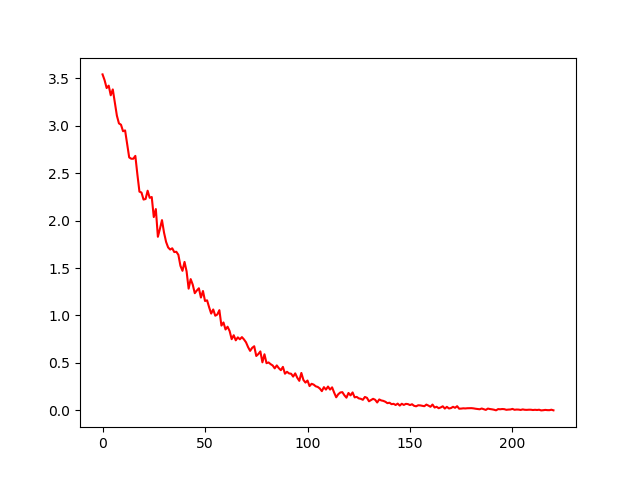
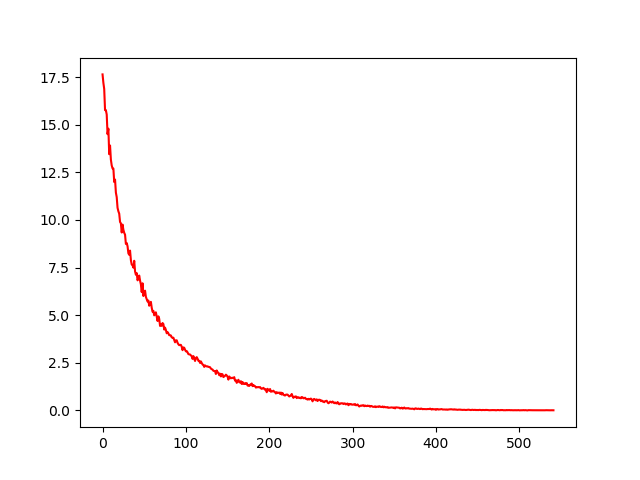
Fix experiments for multivariate case

diff --git a/experiments.py b/experiments.py
@@ -12,39 +12,39 @@ from fitting import fit_MLE, fit_VI, reverse_KL_linear, variational_loss
 from inference import *
 from simple_markov_chain import SimpleMarkovChain
 
-def get_inference_results(mc, num_samples=10000):
+def get_inference_results(mc, dim=1, num_samples=10000):
     data = mc.sample_labeled(num_samples)
 
     print("Data shapes:", [d.shape for d in data.values()])
 
     # Generative
     fitted_mc = SimpleMarkovChain(mc.num_nodes)
-    fitted_mc.initialize_empty_cpds()
+    fitted_mc.initialize_empty_cpds(dim=dim)
     log_fn, plot_results = make_linear_log_fn(mc)
     fit_MLE(data, fitted_mc, log_fn=log_fn)
     plot_results(f"{num_samples}-linear-fit")
 
     # Jumpy generative (every other node)
-    jumpy = SimpleMarkovChain(mc.num_nodes, step=2)
-    jumpy.initialize_empty_cpds()
-    fit_MLE(data, jumpy, log_fn=log_fn)
+    # jumpy = SimpleMarkovChain(mc.num_nodes, step=2)
+    # jumpy.initialize_empty_cpds(dim=dim)
+    # fit_MLE(data, jumpy, log_fn=log_fn)
 
-    full_jump = SimpleMarkovChain(mc.num_nodes, step=mc.num_nodes-1)
-    full_jump.initialize_empty_cpds()
-    fit_MLE(data, full_jump, log_fn=log_fn)
+    # full_jump = SimpleMarkovChain(mc.num_nodes, step=mc.num_nodes-1)
+    # full_jump.initialize_empty_cpds(dim=dim)
+    # fit_MLE(data, full_jump, log_fn=log_fn)
 
     # Discriminative
     p_hat = DiscriminativeMarkovChain(mc.num_nodes)
-    p_hat.initialize_empty_cpds()
+    p_hat.initialize_empty_cpds(dim=dim)
     fit_MLE(data, p_hat, batch_size=min(32, num_samples // 5))
 
     # VI: using reverse KL from true posterior and the ELBO as two different losses
     q_ideal = DiscriminativeMarkovChain(mc.num_nodes)
-    q_ideal.initialize_empty_cpds()
-    fit_VI(data, mc, q_ideal, num_epochs=400, loss_fn=reverse_KL_linear, plot_name="reverse_kl_loss")
+    q_ideal.initialize_empty_cpds(dim=dim)
+    fit_VI(data, mc, q_ideal, num_epochs=800, loss_fn=reverse_KL_linear, plot_name="reverse_kl_loss")
 
     q = DiscriminativeMarkovChain(mc.num_nodes)
-    q.initialize_empty_cpds()
+    q.initialize_empty_cpds(dim=dim)
     fit_VI(data, mc, q, ideal_variational_mc=q_ideal, batch_size=min(32, num_samples // 5))
 
     # VI loss on the entire dataset of evidence
@@ -52,22 +52,22 @@ def get_inference_results(mc, num_samples=10000):
     q_full_loss = variational_loss(mc, q, f"X_{mc.num_nodes}", data[f"X_{mc.num_nodes}"])
     print(f"q loss: {q_full_loss}, ideal loss: {ideal_full_loss}")
 
-    return fitted_mc, jumpy, full_jump, p_hat, q
+    return fitted_mc, p_hat, q
 
 def make_linear_log_fn(true_mc):
     a_errs, b_errs, cov_errs = {}, {}, {}
 
     def log_fn(node_name, cond_fn):
-        a = cond_fn.weights[0].weight.squeeze()
-        b = cond_fn.weights[0].bias.squeeze()
-        cov = cond_fn.cov_matrix().item()
+        a = cond_fn.weights[0].weight
+        b = cond_fn.weights[0].bias
+        cov = cond_fn.cov_matrix()
 
         true_a, true_b = true_mc.parameters[node_name]["coeffs"]
         true_cov = true_mc.parameters[node_name]["cov"]
 
-        a_errs[node_name] = a_errs.get(node_name, []) + [abs(a - true_a)]
-        b_errs[node_name] = b_errs.get(node_name, []) + [abs(b - true_b)]
-        cov_errs[node_name] = cov_errs.get(node_name, []) + [abs(cov - true_cov)]
+        a_errs[node_name] = a_errs.get(node_name, []) + [torch.sum(abs(a - true_a))]
+        b_errs[node_name] = b_errs.get(node_name, []) + [torch.sum(abs(b - true_b))]
+        cov_errs[node_name] = cov_errs.get(node_name, []) + [torch.sum(abs(cov - true_cov))]
 
     def plot_results(prefix="linear-fit"):
         for node_name in a_errs:
@@ -82,6 +82,8 @@ def make_linear_log_fn(true_mc):
     return log_fn, plot_results
         
 def test_finite_samples(sample_amounts=[1000]):
+    dim = 1
+
     # Arbitrary length 5 chain
     # length = 5
     # true_mc = SimpleMarkovChain(5)
@@ -98,9 +100,19 @@ def test_finite_samples(sample_amounts=[1000]):
     # true_mc.specify_polynomial_cpds((0, 1), [(-1.5, 0.6)], [0.7])
 
     # Length 3 chain
-    length = 3
+    # length = 3
+    # true_mc = SimpleMarkovChain(length)
+    # true_mc.specify_polynomial_cpds((0, 1), [(1, 0), (1, 0)], [1, 1])
+
+    # Multivariate example
+    length = 2
+    dim = 2
     true_mc = SimpleMarkovChain(length)
-    true_mc.specify_polynomial_cpds((0, 1), [(1, 0), (1, 0)], [1, 1])
+    true_mc.specify_polynomial_cpds(
+        (torch.tensor([0, 2]).float(), torch.diag(torch.tensor([1, 0.4]))), 
+        [(torch.diag(torch.tensor([2., -1.])), torch.tensor([-3., 3.]))], 
+        [torch.diag(torch.tensor([2.2, 0.7]))]
+    )
 
     # Show distribution of evidence
     # evidence = true_mc.sample_labeled(1000)[f"X_{length}"]
@@ -120,7 +132,8 @@ def test_finite_samples(sample_amounts=[1000]):
         print(f"Trying sample size: {num_samples}")
 
         # Get p_hat using discriminative, q using VI
-        p_hat, jumpy, full_jump, disc_posterior, vi_posterior = get_inference_results(true_mc, num_samples)
+        # p_hat, jumpy, full_jump, disc_posterior, vi_posterior = get_inference_results(true_mc, num_samples)
+        p_hat, disc_posterior, vi_posterior = get_inference_results(true_mc, dim=dim, num_samples=num_samples)
 
         gen_kl = expected_kl_gaussian(true_mc, p_hat, "X_1", f"X_{length}", posterior_func=infer_from_generative)
         # jumpy_kl = expected_kl_gaussian(true_mc, jumpy, "X_1", f"X_{length}", posterior_func=infer_from_generative)
@@ -153,8 +166,8 @@ def test_finite_samples(sample_amounts=[1000]):
             print(f'Gen posterior: N({gen_weight} * X_{length} + {gen_bias}, {gen_cov})')
             # # print(f'Jumpy posterior: N({jumpy_weight} * X_{length} + {jumpy_bias}, {jumpy_cov})')
             # # print(f'Full jump posterior: N({full_jump_weight} * X_{length} + {full_jump_bias}, {full_jump_cov})')
-            print(f"Disc posterior: N({dif.weights[0].weight.item()} * X_{length} + {dif.weights[0].bias.item()}, {dif.cov_matrix().item()})")
-            print(f"VI posterior: N({vif.weights[0].weight.item()} * X_{length} + {vif.weights[0].bias.item()}, {vif.cov_matrix().item()})")
+            print(f"Disc posterior: N({dif.weights[0].weight} * X_{length} + {dif.weights[0].bias}, {dif.cov_matrix()})")
+            print(f"VI posterior: N({vif.weights[0].weight} * X_{length} + {vif.weights[0].bias}, {vif.cov_matrix()})")
                 
 
     # df = pd.DataFrame(np.c_[gen_results, jumpy_results, full_jump_results, disc_results, vi_results], columns=["Generative", "Jumpy (step=2)", "Full jump", "Discriminative", "VI"], index=sample_amounts)

diff --git a/inference.py b/inference.py
@@ -1,28 +1,59 @@
 import torch
 from torch.distributions.normal import Normal
+from torch.distributions.multivariate_normal import MultivariateNormal
 from torch.nn.functional import one_hot
 
 from distributions import GaussianDistribution
 
-def get_coeffs_from_generative(mc, query, evidence, dim=1):
+def get_coeffs_from_generative(mc, query_node, evidence_node, dim=1):
+    """
+    Computes the weight, bias, and covariance of the linear Gaussian posterior
+     P(query_node | evidence_node) using exact inference.
+
+    Parameters
+    ----------
+    mc : BayesNet
+        The generative model — CPDs must be linear Gaussian!
+
+    query_node : str
+        Name of the query node
+
+    evidence_node : str
+        Name of the evidence node
+
+    dim : int
+        Dimensionality of each node
+    """
     zero = 0 if dim == 1 else torch.zeros(dim)
 
-    true_bias = infer_from_generative(mc, query, evidence, zero).mean
-    true_cov = infer_from_generative(mc, query, evidence, zero).cov
+    true_bias = infer_from_generative(mc, query_node, evidence_node, zero).mean
+    true_cov = infer_from_generative(mc, query_node, evidence_node, zero).cov
 
     if dim == 1:
-        true_mean = infer_from_generative(mc, query, evidence, 1).mean - true_bias
+        true_weight = infer_from_generative(mc, query_node, evidence_node, 1).mean - true_bias
     else:
         cols = []
         for i in range(dim):
             x = one_hot(torch.tensor(i), dim)
-            col_i = infer_from_generative(mc, query, evidence, x).mean - true_bias
+            col_i = infer_from_generative(mc, query_node, evidence_node, x).mean - true_bias
             cols.append(col_i)
-        true_mean = torch.stack(cols).T
+        true_weight = torch.stack(cols).T
 
-    return true_mean, true_bias, true_cov
+    return true_weight, true_bias, true_cov
+
+def infer_from_generative(mc, query_node, evidence_node, evidences):
+    """
+    Returns a GaussianDistribution object representing the posterior 
+     P(query_node|evidence_node = evidences) for fixed evidence values.
+    """
+    mean, cov = compute_joint_linear(mc, query_node, evidence_node, evidences)
+    return GaussianDistribution(mean, cov)
 
 def compute_joint_linear(mc, query_node, evidence_node, evidence=1):
+    """
+    Returns the mean and covariance of P(query_node | evidence_node=evidence).
+    Assumes that `mc` is a BayesNet whose CPDs are *linear Gaussian*.
+    """
     dim = isinstance(evidence, torch.Tensor) and evidence.shape and evidence.shape[-1]
     multi = dim > 1
 
@@ -97,56 +128,43 @@ def compute_joint_linear(mc, query_node, evidence_node, evidence=1):
     else:
         cross_cov = front_multiplier * query_cov
 
-    # print(f"Exact inference on {query_node}|{evidence_node}={evidence}")
-    # print(f"All coeffs: {[all_coeffs[i][0] for i in range(start+1, end)]}")
-    # print(f"query_idx: {query_idx}, ev_idx: {evidence_idx}")
-    # print(f"means: {means}")
-    # print(f"covs: {covs}")
-    # print(f"query_mean: {query_mean}")
-    # print(f"query_cov: {query_cov}")
-    # print(f"front_multiplier: {front_multiplier}")
-    # print(f"cross_cov: {cross_cov}")
-    # print(f"evidence_mean: {evidence_mean}")
-    # print(f"evidence_cov: {evidence_cov}")
-
     # Conditioning: Conditioning on the evidence to get the query distribution
     # Currently works both ways because it is a scalar
     if query_idx < evidence_idx:
         if isinstance(cross_cov, torch.Tensor):
-            cond_mean = query_mean + cross_cov @ torch.inverse(evidence_cov) @ (evidence[evidence_node] - evidence_mean)
+            cond_mean = query_mean + (evidence[evidence_node] - evidence_mean) @ (cross_cov @ torch.inverse(evidence_cov)).T
             cond_cov = query_cov - cross_cov @ torch.inverse(evidence_cov) @ cross_cov.T
         else:
             cond_mean = query_mean + cross_cov*(1./evidence_cov)*(evidence[evidence_node] - evidence_mean)
             cond_cov = query_cov - cross_cov * (1. / evidence_cov) * cross_cov
     else:
+        # TODO: this isn't correct, not sure what the actual equations should be though?
         cond_mean = query_mean
         cond_cov = query_cov
-
-    # print(all_coeffs)
-    # print(all_cov)
-    # c = [coeff[0] for coeff in all_coeffs[1:]]
-
-    # print(f"query_cov: {query_cov}, cross_cov: {cross_cov}, evidence_cov: {evidence_cov}")
-    # print(f"Numerator: {cross_cov ** 2}, should be: {(c[0] * c[1] * c[2]) ** 2 * all_cov[0] ** 2}")
-    # print(f"Denominator: {evidence_cov}, should be: {(c[0] * c[1] * c[2]) ** 2 * all_cov[0] + all_cov[3] + c[2]**2 * all_cov[2] + c[2]**2 * c[1]**2 * all_cov[1]}")
-    # print(cond_cov)
-    # print(f"cond_mean: {cond_mean}, cond_cov: {cond_cov}")
 
     return cond_mean, cond_cov
 
 def infer_from_posterior(mc, query_node, evidence_node, evidences):
     return mc.get_node(query_node).cpd.cond_fn([evidences])
 
-def infer_from_generative(mc, query_node, evidence_node, evidences):
-    mean, cov = compute_joint_linear(mc, query_node, evidence_node, evidences)
-    return GaussianDistribution(mean, cov)
-
 def kl_div_gaussian(true_mean, true_cov, mean, cov):
-    return torch.distributions.kl.kl_divergence(Normal(true_mean, true_cov ** 0.5), Normal(mean, cov ** 0.5))
+    if len(cov.shape) and cov.shape[-1] > 1:
+        return torch.distributions.kl.kl_divergence(MultivariateNormal(true_mean, true_cov), MultivariateNormal(mean, cov))
+    else:
+        return torch.distributions.kl.kl_divergence(Normal(true_mean, true_cov ** 0.5), Normal(mean, cov ** 0.5))
 
 def expected_kl_gaussian(true_mc, inferred_mc, query_node, evidence_node, 
                         true_func=compute_joint_linear, posterior_func=infer_from_posterior, num_samples=5000):
+    """
+    Given the true Gaussian posterior p(X|e) represented by `true_mc`, and the inferred posterior q(X|e) represented by `inferred_mc`,
+     returns the expected KL divergence between the two:
 
+     E_e~p(e)[KL(p(X|e) || q(X|e))]
+
+    The `true_func` and `posterior_func` are functions that take in a BayesNet, query node, evidence node, and evidence,
+     then return the true and learned posterior distributions respectively. These can be changed depending on the model;
+     for example, if your learned posterior is a generative model instead of a discriminative one, you should set posterior_func=compute_joint_linear.
+    """
     evidences = true_mc.sample_labeled(num_samples)[evidence_node]
 
     true_mean, true_cov = true_func(true_mc, query_node, evidence_node, evidences)

diff --git a/discriminative_markov_chain.py b/discriminative_markov_chain.py
@@ -11,10 +11,10 @@ class DiscriminativeMarkovChain(BayesNet):
     def __init__(self, num_nodes):
         super(DiscriminativeMarkovChain, self).__init__(num_nodes)
 
-    def initialize_empty_cpds(self, cpd_class=LinearGaussianCPD):
+    def initialize_empty_cpds(self, dim=1, cpd_class=LinearGaussianCPD):
         self.set_prior(f"X_{self.num_nodes}", GaussianDistribution(0, 1))
         for i in range(self.num_nodes - 1):
-            self.set_parents(f"X_{i+1}", [f"X_{self.num_nodes}"], cpd_class.empty([1], 1))
+            self.set_parents(f"X_{i+1}", [f"X_{self.num_nodes}"], cpd_class.empty([dim], dim))
         self.build()
 
 if __name__ == "__main__":

diff --git a/fitting.py b/fitting.py
@@ -268,7 +268,7 @@ def reverse_KL_linear(p, q, evidence_node, evidence, query_node="X_1"):
         # print("result shape:", result.shape)
 
     # Sum the log probs across nodes for each sample
-    log_probs = torch.sum(torch.cat(log_probs, axis=1), axis=1)
+    log_probs = sum(log_probs)
 
     # D_KL(q||p) = E_q[log q(z|x) - log p(z|x)]
     return torch.mean(q_entropies) - torch.mean(log_probs)
